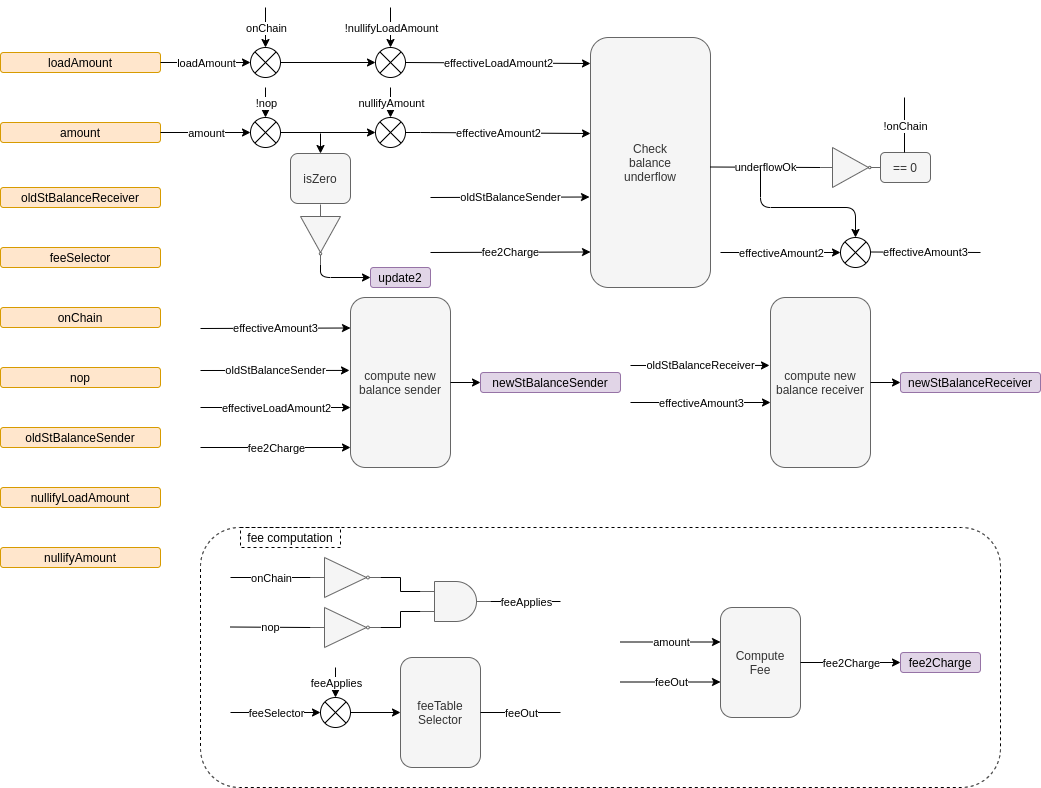
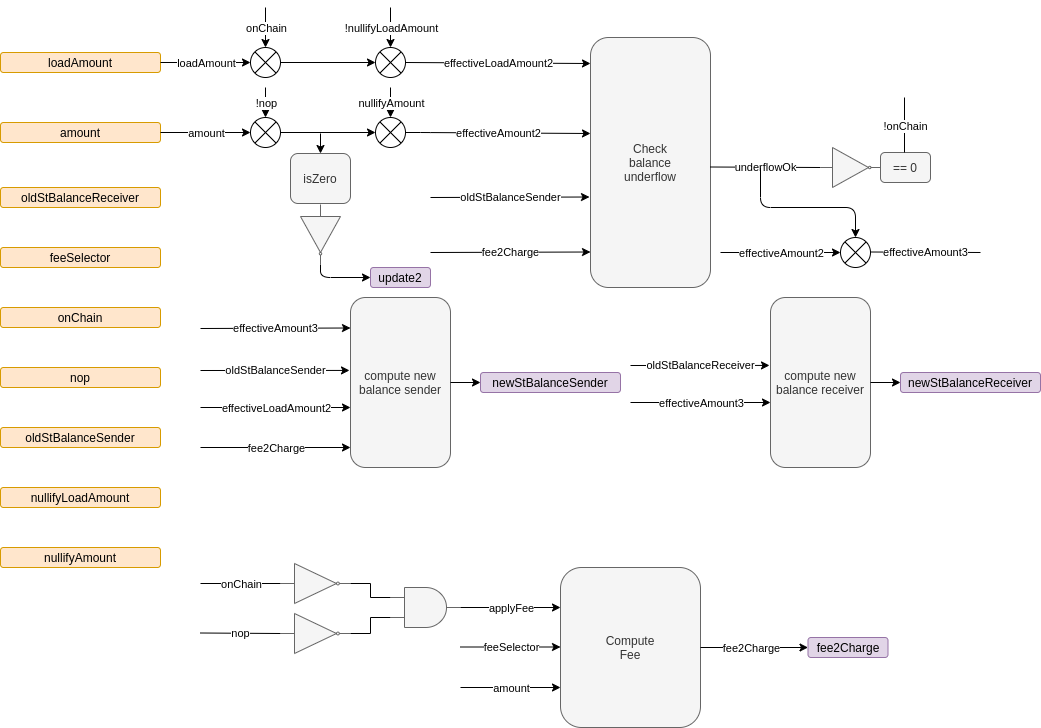
update circuits and main protocol

diff --git a/docs/developers/protocol/hermez-protocol/circuits/circuits.md b/docs/developers/protocol/hermez-protocol/circuits/circuits.md
@@ -28,7 +28,7 @@ Circuits would be splitted in three modules:
 - Library:
   - [hash-state](developers/protocol/hermez-protocol/circuits/circuits?id=hash-state) 
   - [decode-float](developers/protocol/hermez-protocol/circuits/circuits?id=decode-float)
-  - [fee-table-selector](developers/protocol/hermez-protocol/circuits/circuits?id=fee-table-selector)
+  - [mux256](developers/protocol/hermez-protocol/circuits/circuits?id=mux256)
   - [utils-bjj](developers/protocol/hermez-protocol/circuits/circuits?id=utils-bjj)
 - Source:
   - [decode-tx](developers/protocol/hermez-protocol/circuits/circuits?id=decode-tx)
@@ -36,6 +36,7 @@ Circuits would be splitted in three modules:
   - [rq-tx-verifier](developers/protocol/hermez-protocol/circuits/circuits?id=rq-tx-verifier)
   - [hash-inputs](developers/protocol/hermez-protocol/circuits/circuits?id=hash-inputs)
   - [fee-tx](developers/protocol/hermez-protocol/circuits/circuits?id=fee-tx)
+  - [compute-fee](developers/protocol/hermez-protocol/circuits/circuits?id=compute-fee)
   - [balance-updater](developers/protocol/hermez-protocol/circuits/circuits?id=balance-updater)
   - [rollup-tx-states](developers/protocol/hermez-protocol/circuits/circuits?id=rollup-tx-states)
   - [rollup-tx](developers/protocol/hermez-protocol/circuits/circuits?id=rollup-tx)
@@ -126,30 +127,23 @@ Gets an input representing a `float16` format and decode it to a large integer v
 |:------:|:-----:|:--------------:|
 |  out   | field | float16 decode |
 
-### fee-table-selector
+### mux256
 #### Description
-Selects the fee to apply in a transaction given its selector index.
-
-> It should be noted that `fee X` are values hardcoded in the circuit that will match the [fee factor shifted](developers/protocol/hermez-protocol/fee-table?id=feefactor-left-shifted)
-
-- Steps:
-  - get the fee selector
-  - selects the output fee
+Multiplexer with 256 inputs
 
 #### Schematic
-![center](fee-table-selector.png)
+![center](mux256.png)
 
 #### Inputs
-| Input  | type  | Description  |
-|:------:|:-----:|:------------:|
-| feeSel | uint8 | fee Selector |
+|  Input  |     type      |  Description  |
+|:-------:|:-------------:|:-------------:|
+|  s[8]   | boolean array | mux selectors |
+| in[256] |  field array  |  mux inputs   |
 
 #### Outputs
-| Output | type  |      Description       |
-|:------:|:-----:|:----------------------:|
-| feeOut | field | feeSelected * $2^{79}$ |
-
->79 bits has been chosen in order to optimize precision at the time to compute fees. 79 bits is the minimum bits to achieve enough precision according [fee table values](developers/protocol/hermez-protocol/fee-table?id=transaction-fee-table)
+| Output | type  |  Description   |
+|:------:|:-----:|:--------------:|
+|  out   | field | selected input |
 
 ### utils-bjj
 #### Description
@@ -400,6 +394,37 @@ Besides, if coordinator does not fulfill all the possible recipient to receive f
 |    Output    | type  |  Description   |
 |:------------:|:-----:|:--------------:|
 | newStateRoot | field | new state root |
+
+### compute-fee
+#### Description
+Computes the final amount of fee to apply given the fee selector
+
+- Steps:
+  - selects fee factor, `feeOut`, to apply given `feeSel` and `applyFee`
+  - compute `feeOutNotShifted = amount * feeOut` and convert it into bits in `feeOutBits[253]`
+  - compute `applyShift` to decide if shift has to be applied to `feeOutNotShifted`
+  - select bits on `feeOutBits[253]` depending on `applyShift` flag
+  - assert `feeOut` is $< 2^{128}$
+
+> It should be noted that `feeShiftTable[x]` are values hardcoded in the circuit that will match the [fee factor shifted](developers/protocol/hermez-protocol/fee-table?id=feefactor-left-shifted)
+
+> 60 bits has been chosen in order to optimize precision at the time to compute fees. 60 bits is the minimum bits to achieve enough precision according [fee table values](developers/protocol/hermez-protocol/fee-table?id=transaction-fee-table)
+
+
+#### Schematic
+![center](compute-fee.png)
+
+#### Inputs
+|  Input   |  type   |                     Description                      |
+|:--------:|:-------:|:----------------------------------------------------:|
+|  feeSel  |  Uint8  |                     fee selector                     |
+|  amount  | Uint128 |            amount to apply the fee factor            |
+| applyFee | boolean | determines if fee needs to be computed or if it is 0 |
+
+#### Outputs
+| Output |  type   |    Description     |
+|:------:|:-------:|:------------------:|
+| feeOut | Uint128 | amount * feeFactor |
 
 ### balance-updater
 #### Description

diff --git a/docs/developers/protocol/hermez-protocol/protocol.md b/docs/developers/protocol/hermez-protocol/protocol.md
@@ -817,10 +817,14 @@ See the [table showing the 256 values for each fee index](developers/protocol/he
 Procedure to compute fees must remain equal across protocol implementations. Following procedure has been adopted:
 
 - given `feeUser` bits selects [feeFactor shifted](developers/protocol/hermez-protocol/fee-table?id=feefactor-left-shifted) large integer
-  - 79 bits has been chosen in order to optimize precision at the time to compute fees. 79 bits is the minimum bits to achieve enough precision among all fee factor values
-- $Fee_{amount} = amount * feeFactor_{shifted}$
-- $Fee_{amount} = Fee_{amount} >> 79$
+  - 60 bits has been chosen in order to optimize precision at the time to compute fees. 60 bits is the minimum bits to achieve enough precision among all fee factor values
+  - $\text{bitsShiftPrecision} = 60$
 
+
+- $Fee_{amount} = amount * feeFactor_{shifted}$
+  - $Fee_{amount} = Fee_{amount} >> \text{bitsShiftPrecision} \quad \text{if} \quad i < 192$
+  - $Fee_{amount} = Fee_{amount} \quad \text{if} \quad i \geq 192$
+  - $assert(Fee_{amount} < 2^{128})$
 
 ### Coordinator
 L2 transactions are collected by the coordinator and it will receive all the fees collected by the L2 transactions.

diff --git a/docs/developers/protocol/hermez-protocol/fee-table.md b/docs/developers/protocol/hermez-protocol/fee-table.md
@@ -10,7 +10,7 @@ $2^{-60 + i·(\frac{-8-(-60)}{32})} \quad \text{if} \quad 1 \leq i \leq 31$
 
 $2^{-8 + (i-32)·(\frac{0-(-8)}{160})} \quad \text{if} \quad 32 \leq i \leq 191$
 
-$2^{(i-192)·(\frac{0-63}{63})} \quad \text{if} \quad 192 \leq i \leq 255$
+$2^{(i-192)·(\frac{63-0}{63})} \quad \text{if} \quad 192 \leq i \leq 255$
 
 This is the complete table of the fees factors by fee index:
 
